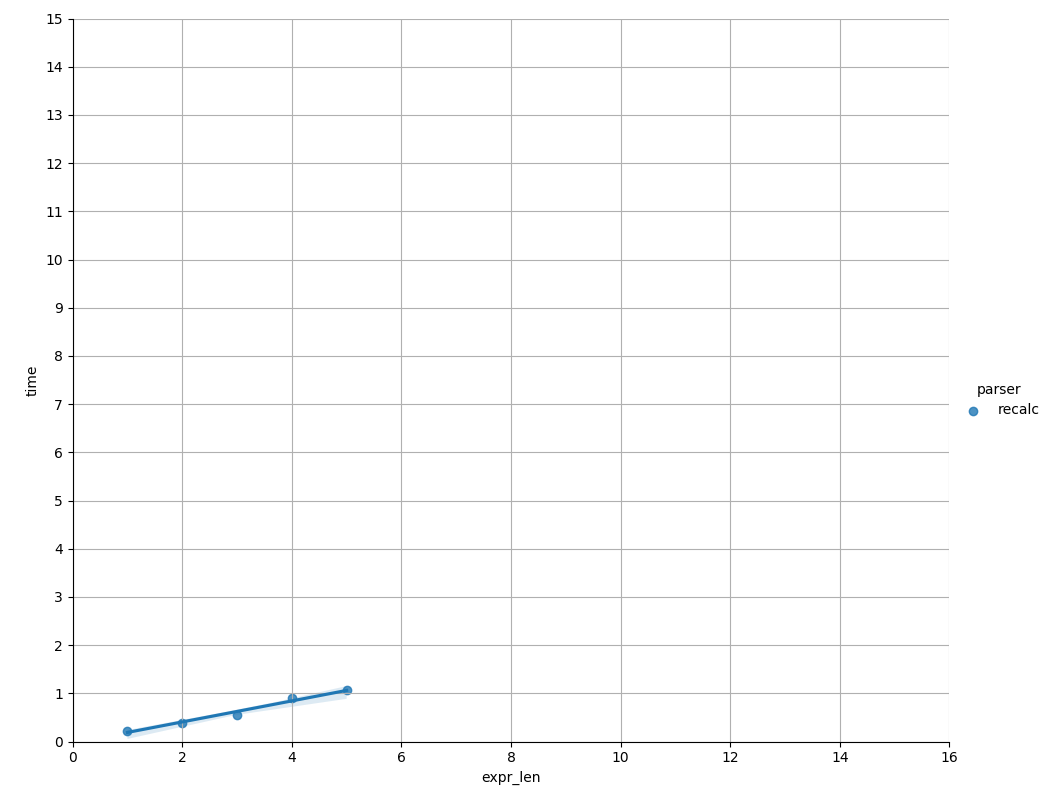
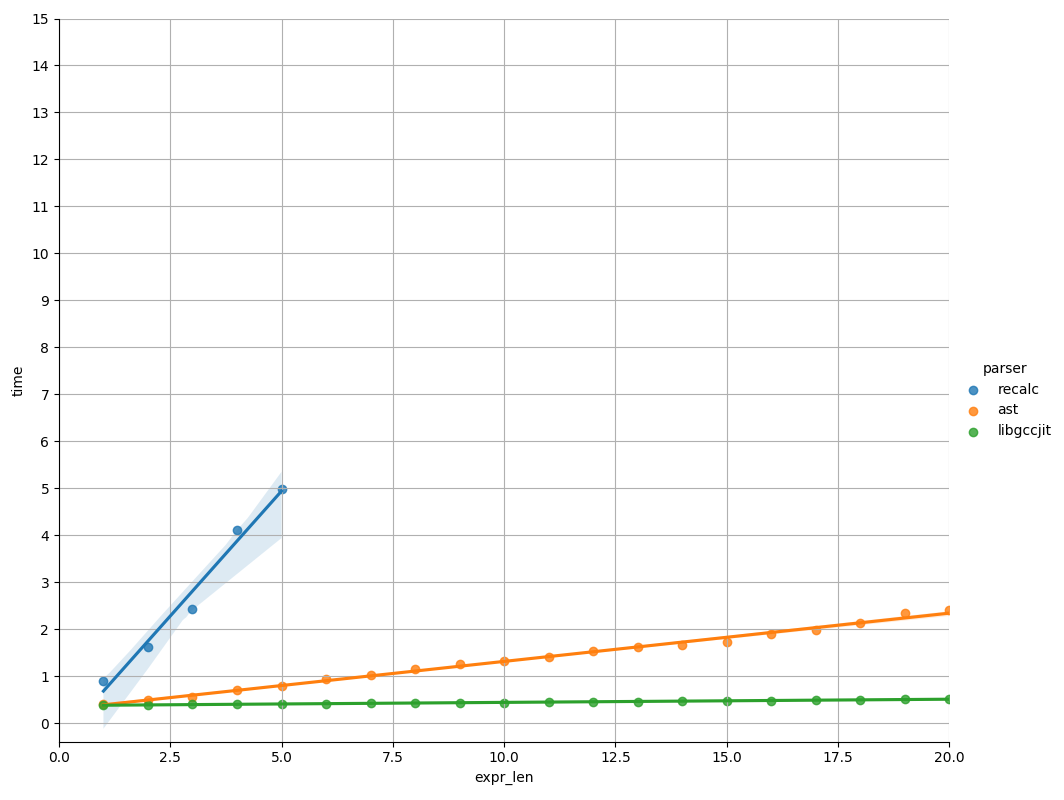
Add ast

diff --git a/benchmark.py b/benchmark.py
@@ -14,7 +14,7 @@ def main():
     dataframe = pandas.read_csv('data.csv')
     seaborn.lmplot(x='expr_len', y='time', hue="parser", data=dataframe,
                    truncate=True, height=8, aspect=1.2)
-    pyplot.xlim(0, 16)
+    pyplot.xlim(0, 20)
     pyplot.yticks(range(0, 16))
     # pyplot.yscale("log")
     pyplot.grid(True)

diff --git a/libgccjit.c b/libgccjit.c
@@ -360,7 +360,7 @@ void measure_time(tables_t* tables, char* statements[20])
     int i;
     for (i = 0; i < MAX_STATEMENT_SIZE; i++)
     {
-        printf("recalc,%d,%.3lf\n", i + 1, timer[i]);
+        printf("libgccjit,%d,%.3lf\n", i + 1, timer[i]);
     }
     printf("\n");
 }

diff --git a/ast.c b/ast.c
@@ -171,7 +171,7 @@ void measure_time(tables_t* tables, char* statements[20])
     int i;
     for (i = 0; i < MAX_STATEMENT_SIZE; i++)
     {
-        printf("recalc,%d,%.3lf\n", i + 1, timer[i]);
+        printf("ast,%d,%.3lf\n", i + 1, timer[i]);
     }
     printf("\n");
 }

diff --git a/recalc.c b/recalc.c
@@ -11,10 +11,6 @@
 #include "experiment.h"
 
 
-#define ATTEMPTS_PER_TEST 5
-#define MAX_STATEMENT_SIZE 20
-
-
 long double parse(tables_t* tables, char* statement, long double x)
 {
     int state[MAX_STATES] = {0};

diff --git a/experiment.h b/experiment.h
@@ -1,5 +1,5 @@
-#define ATTEMPTS_PER_TEST 1
+#define ATTEMPTS_PER_TEST 5
 #define MAX_STATEMENT_SIZE 20  // < 21
 
-#define X_RANGE 1e7
+#define X_RANGE 1e6
 
